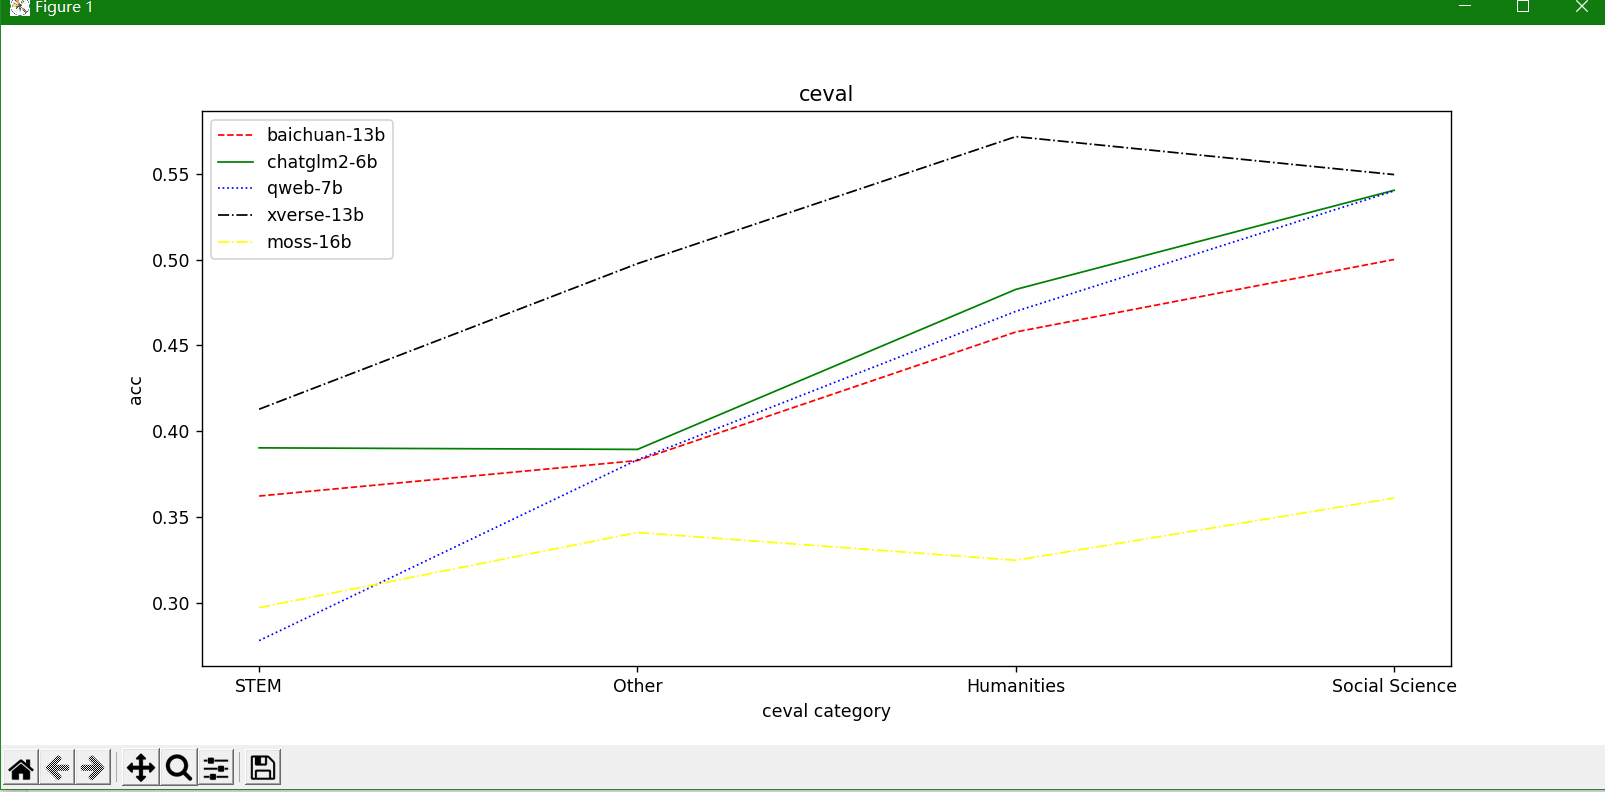
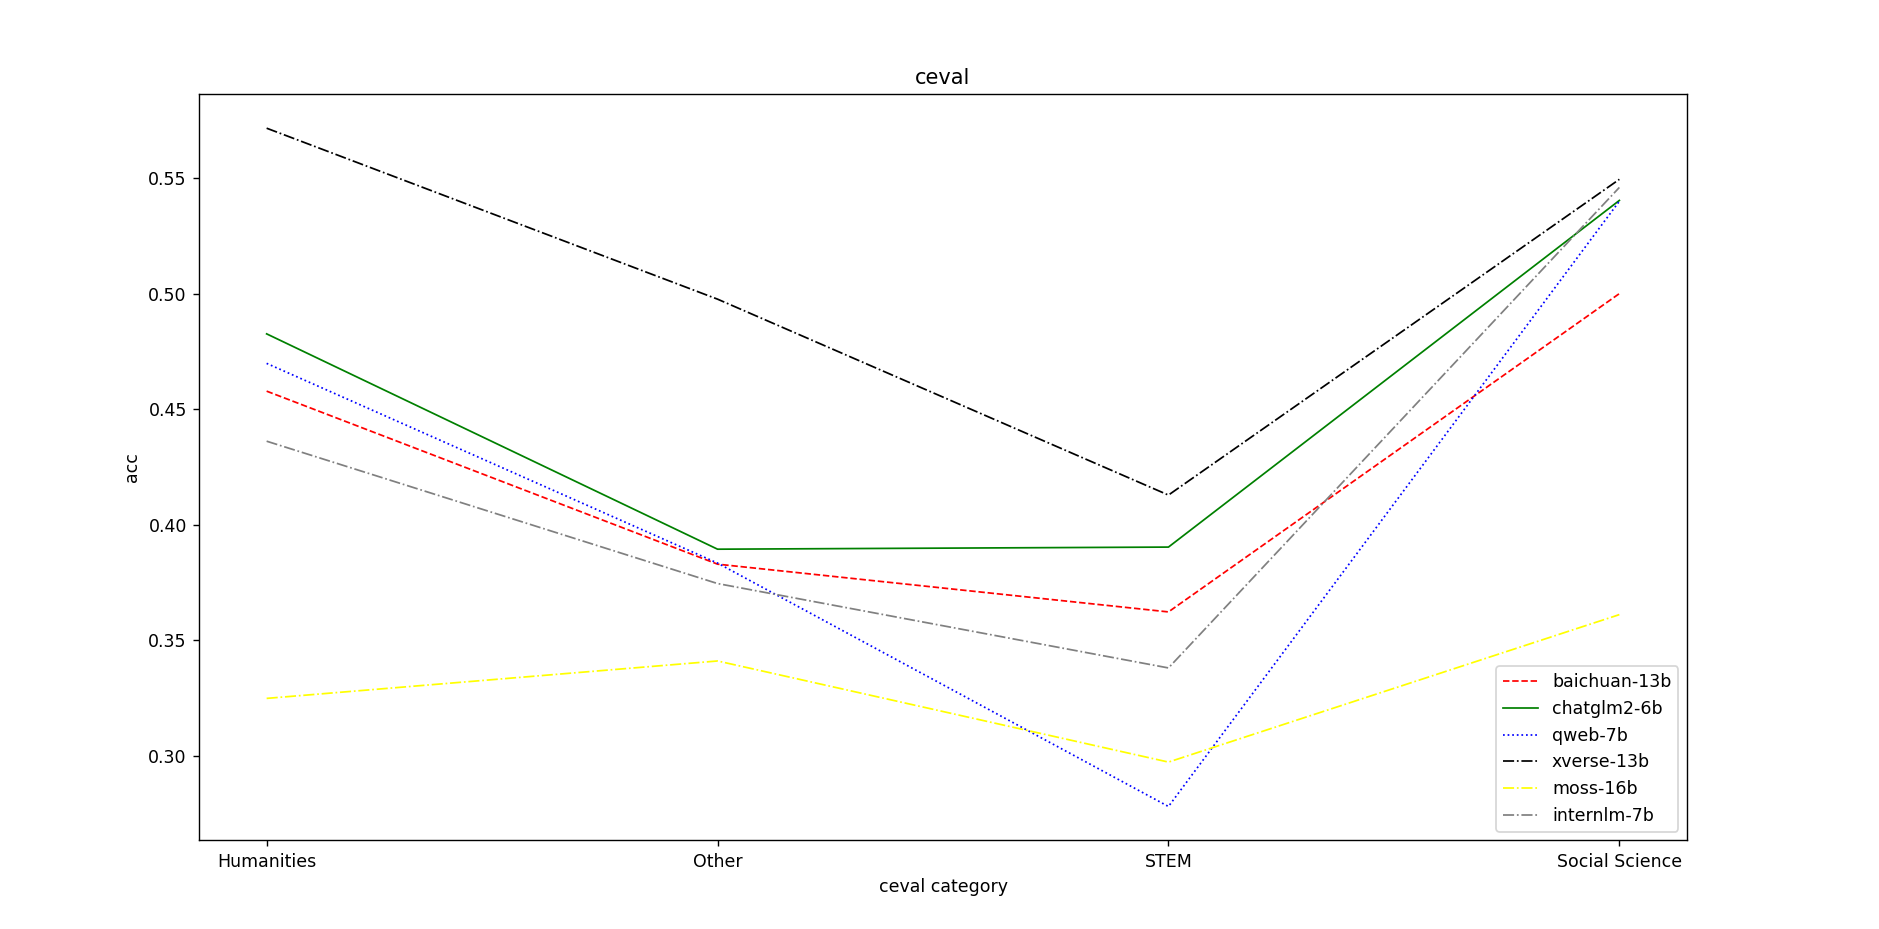
update

diff --git a/model_result/draw_ceval.py b/model_result/draw_ceval.py
@@ -34,27 +34,37 @@ with open("ceval/xverse-13b-chat-int4/metric.json",mode="r",encoding="utf-8") as
 with open("ceval/moss-moon-003-sft-int4/metric.json",mode="r",encoding="utf-8") as f:
     moss =  get_data(json.loads(f.read()))
 
+with open("ceval/internlm-chat-7b-int4/metric.json",mode="r",encoding="utf-8") as f:
+    internlm =  get_data(json.loads(f.read()))
+
 import matplotlib.pyplot as plt   #导入包
 fig = plt.figure()              #创建空图
 x_label = list(baichuan.keys())     #x轴的坐标
+
 y_label = list(baichuan.values())     #y轴坐标
 plt.plot(x_label,y_label,color = 'r',linewidth=1.0,linestyle='dashed',label="baichuan-13b")  #构建折线图，可以设置线宽，颜色属性
 
-x_label = list(chatglm2.keys())     #x轴的坐标
 y_label = list(chatglm2.values())     #y轴坐标
 plt.plot(x_label,y_label,color = 'g',linewidth=1.0,linestyle='solid',label="chatglm2-6b")  #构建折线图，可以设置线宽，颜色属性
 
-x_label = list(qwen.keys())     #x轴的坐标
+
 y_label = list(qwen.values())     #y轴坐标
 plt.plot(x_label,y_label,color = 'b',linewidth=1.0,linestyle='dotted',label="qweb-7b")  #构建折线图，可以设置线宽，颜色属性
 
-x_label = list(xverse.keys())     #x轴的坐标
+
 y_label = list(xverse.values())     #y轴坐标
 plt.plot(x_label,y_label,color = 'black',linewidth=1.0,linestyle='dashdot',label="xverse-13b")  #构建折线图，可以设置线宽，颜色属性
 
-x_label = list(moss.keys())     #x轴的坐标
+
 y_label = list(moss.values())     #y轴坐标
 plt.plot(x_label,y_label,color = 'yellow',linewidth=1.0,linestyle='dashdot',label="moss-16b")  #构建折线图，可以设置线宽，颜色属性
+
+
+
+y_label = list(internlm.values())     #y轴坐标
+plt.plot(x_label,y_label,color = 'grey',linewidth=1.0,linestyle='dashdot',label="internlm-7b")  #构建折线图，可以设置线宽，颜色属性
+
+
 
 plt.title("ceval")                 #设置标题，这里只能显示英文，中文显示乱码
 plt.ylabel("acc")            #设置y轴名称

diff --git a/auto_eval/config.py b/auto_eval/config.py
@@ -12,7 +12,9 @@ OPENAI_API_BASE = "http://192.168.2.180:8081/v1"
 # MODEL = "langchain/chat_model/baichuan-13b-chat-int4"
 # MODEL = "langchain/chat_model/xverse-13b-chat-int4"
 # MODEL = "langchain/chat_model/moss-moon-003-sft-int4"
+# MODEL = "langchain/chat_model/internlm-chat-7b-int4"
 MODEL = "langchain/chat_model/chatglm2-6b-int4"
+
 
 FORCE_EVAL = False # 评估结果存在，是否重新评估
 
